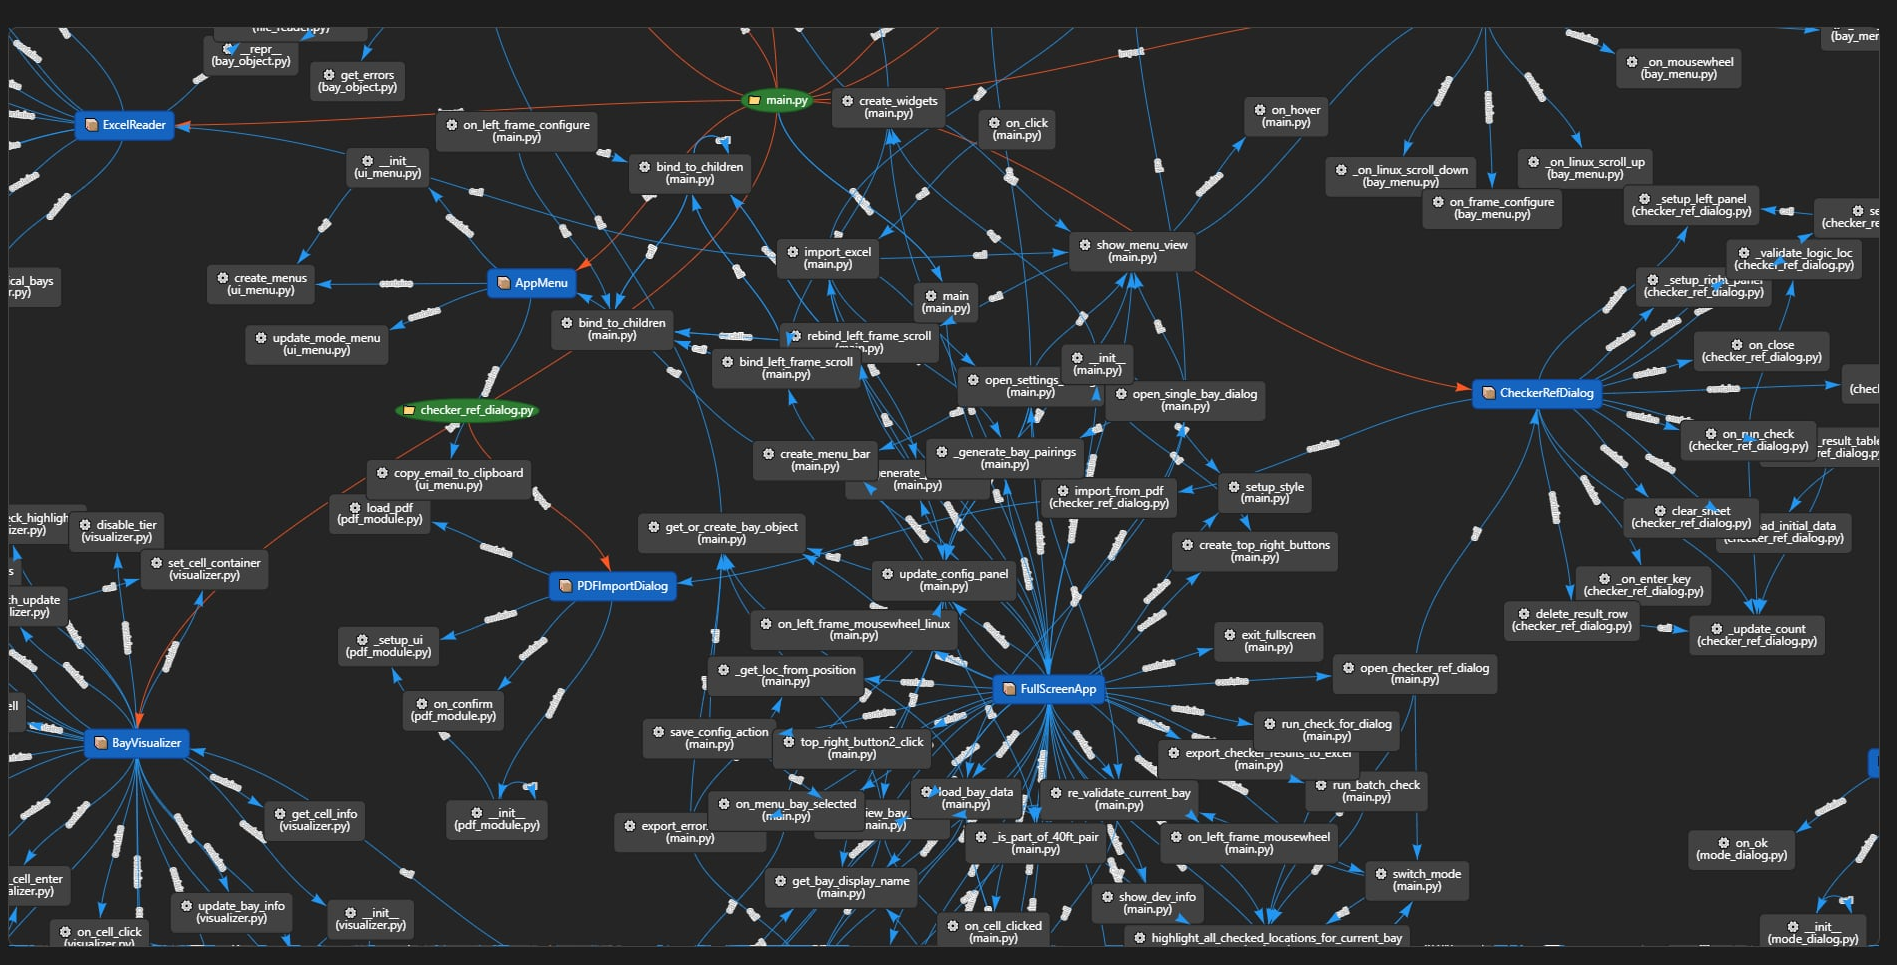
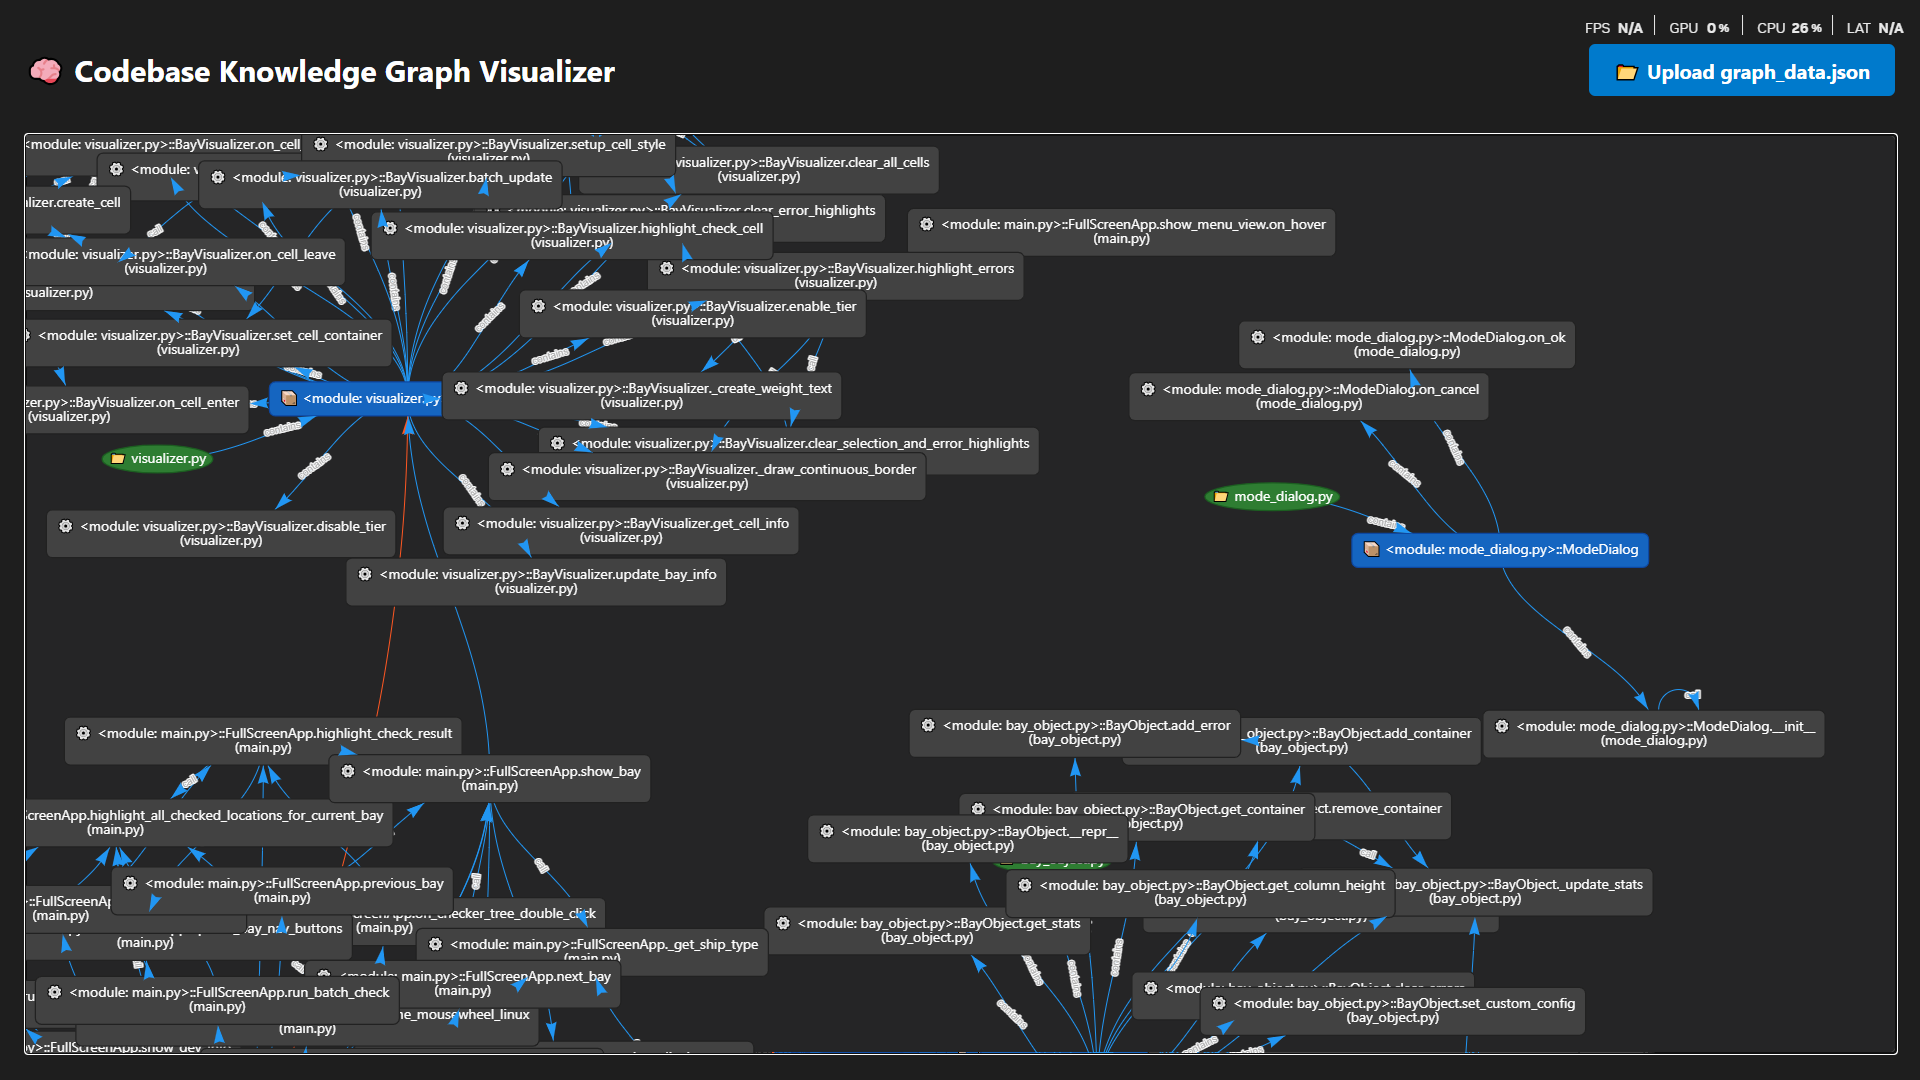
docs(readme): add related work for code-graph agent context
Cite Aider Repo Map, Codebase-Memory, Chinthareddy (AST code graphs), and JetBrains task-aware retrieval. Clarify this project is not Microsoft GraphRAG.

diff --git a/README.md b/README.md
@@ -90,6 +90,23 @@ open examples/graph_visualizer.html
 
 ---
 
+## Related Work
+
+GraphRAG-Code targets **structural context for coding agents** (call/import graphs, blast radius, dependency snippets via MCP). It is **not** the [Microsoft GraphRAG](https://github.com/microsoft/graphrag) project, which indexes **unstructured text** with a different graph and query stack.
+
+Work directly relevant to this problem:
+
+| Reference | Relevance to GraphRAG-Code |
+|-----------|----------------------------|
+| [Aider Repo Map](https://aider.chat/docs/repomap.html) (Gauthier, 2024) | Tree-sitter + PageRank for repo context; we use **directed** graphs, **Personalized** PageRank from a seed symbol, and MCP-delivered **source blocks**. |
+| *Codebase-Memory* (Vogel et al., 2026) | Tree-sitter knowledge graph + **MCP** for code exploration; closest system parallel. We add PPR-based ranking with intent-specific merge weights and snippet extraction. |
+| [Reliable Graph-RAG for Codebases](https://arxiv.org/abs/2601.08773) (Chinthareddy, 2026) | AST-derived graphs vs LLM-built graphs on **repository** structural tracing; supports deterministic AST indexing for multi-hop code queries. |
+| *Practical Code RAG at Scale* (Galimzyanov et al., NeurIPS 2025) | Retrieval quality depends on **task type**; motivates separate tools (`get_impact` vs `get_context`) and a future hybrid intent router (graph vs lexical). |
+
+Deeper positioning, debates, and metrics: [`docs/RESEARCH.md`](docs/RESEARCH.md) · [`docs/LITERATURE_REVIEW.md`](docs/LITERATURE_REVIEW.md).
+
+---
+
 ## ⚠️ Known Limitations
 - Currently, GraphRAG-Code natively supports Python codebases (multi-language support is planned for future releases).
 - **Latency overhead of ~20-25% on tiny codebases** (<20 files) due to MCP initialization and in-memory graph loading. This is compensated by massive performance gains and token savings on larger codebases.